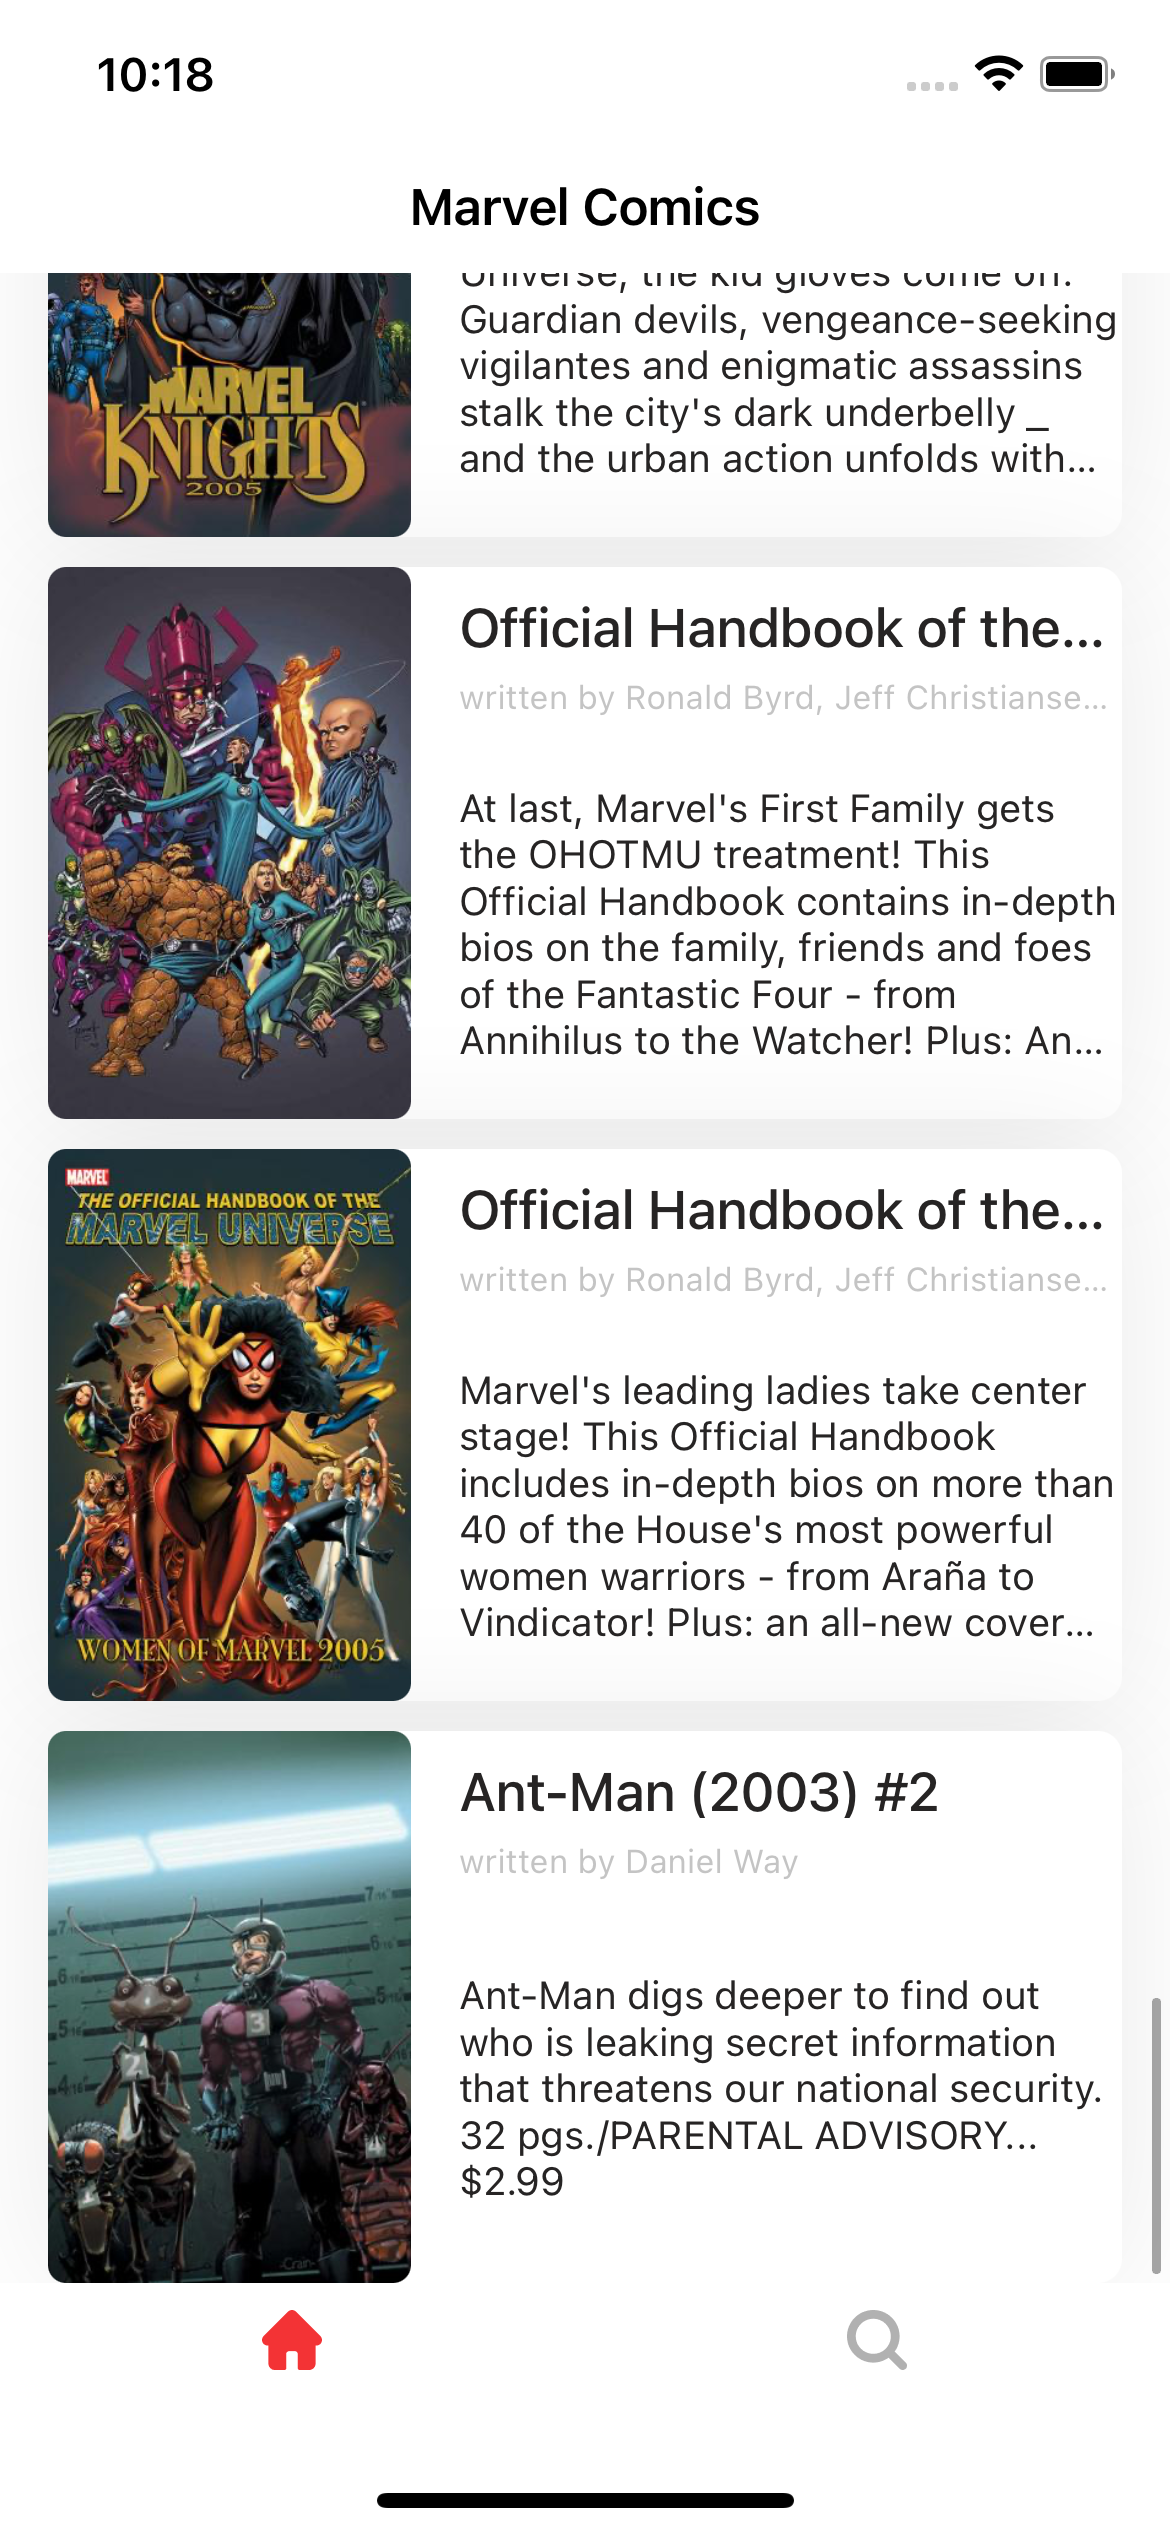
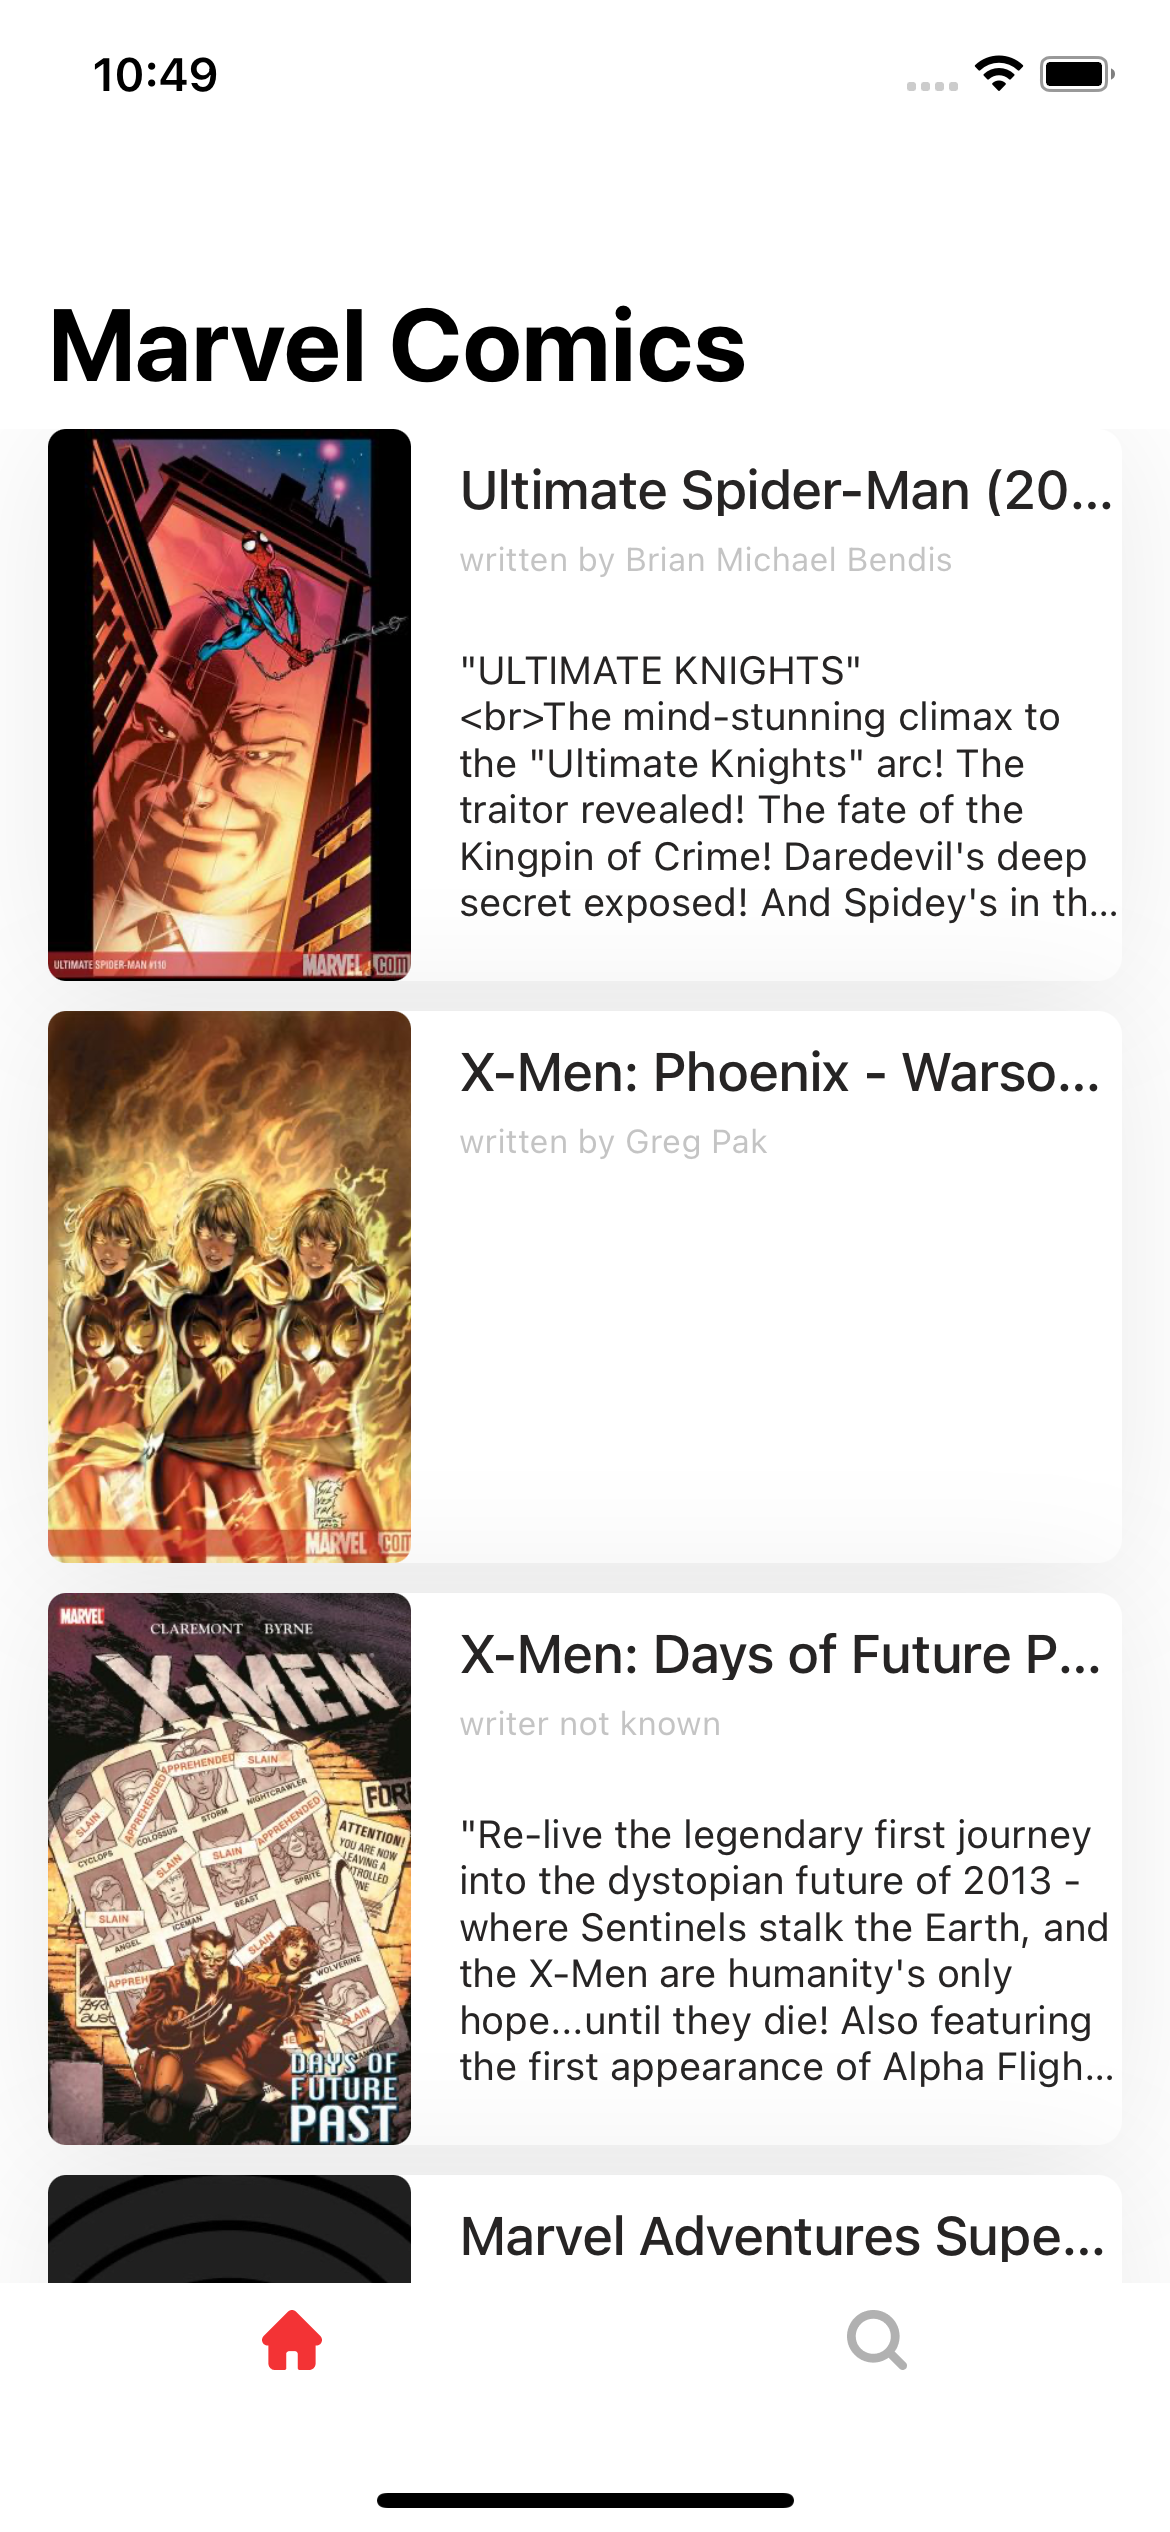
change offset for fetching comics on main scene change preview

diff --git a/marvel_app/API/MarvelService.swift b/marvel_app/API/MarvelService.swift
@@ -17,7 +17,7 @@ class MarvelService {
     /// - Parameter completion: Comics
     func fetchComics(completion: @escaping((RawComicsResponse) -> Void)){
         
-        let fetchLink = "https://gateway.marvel.com/v1/public/comics?ts=1&apikey=\(MarvelService.api_key)&hash=\(MarvelService.hash_key)&limit=25&offset=0"
+        let fetchLink = "https://gateway.marvel.com/v1/public/comics?ts=1&apikey=\(MarvelService.api_key)&hash=\(MarvelService.hash_key)&limit=25&offset=70"
         print("DEBUG: fetchLink -> \(fetchLink)")
         guard let url = URL(string: fetchLink) else {return}
         
